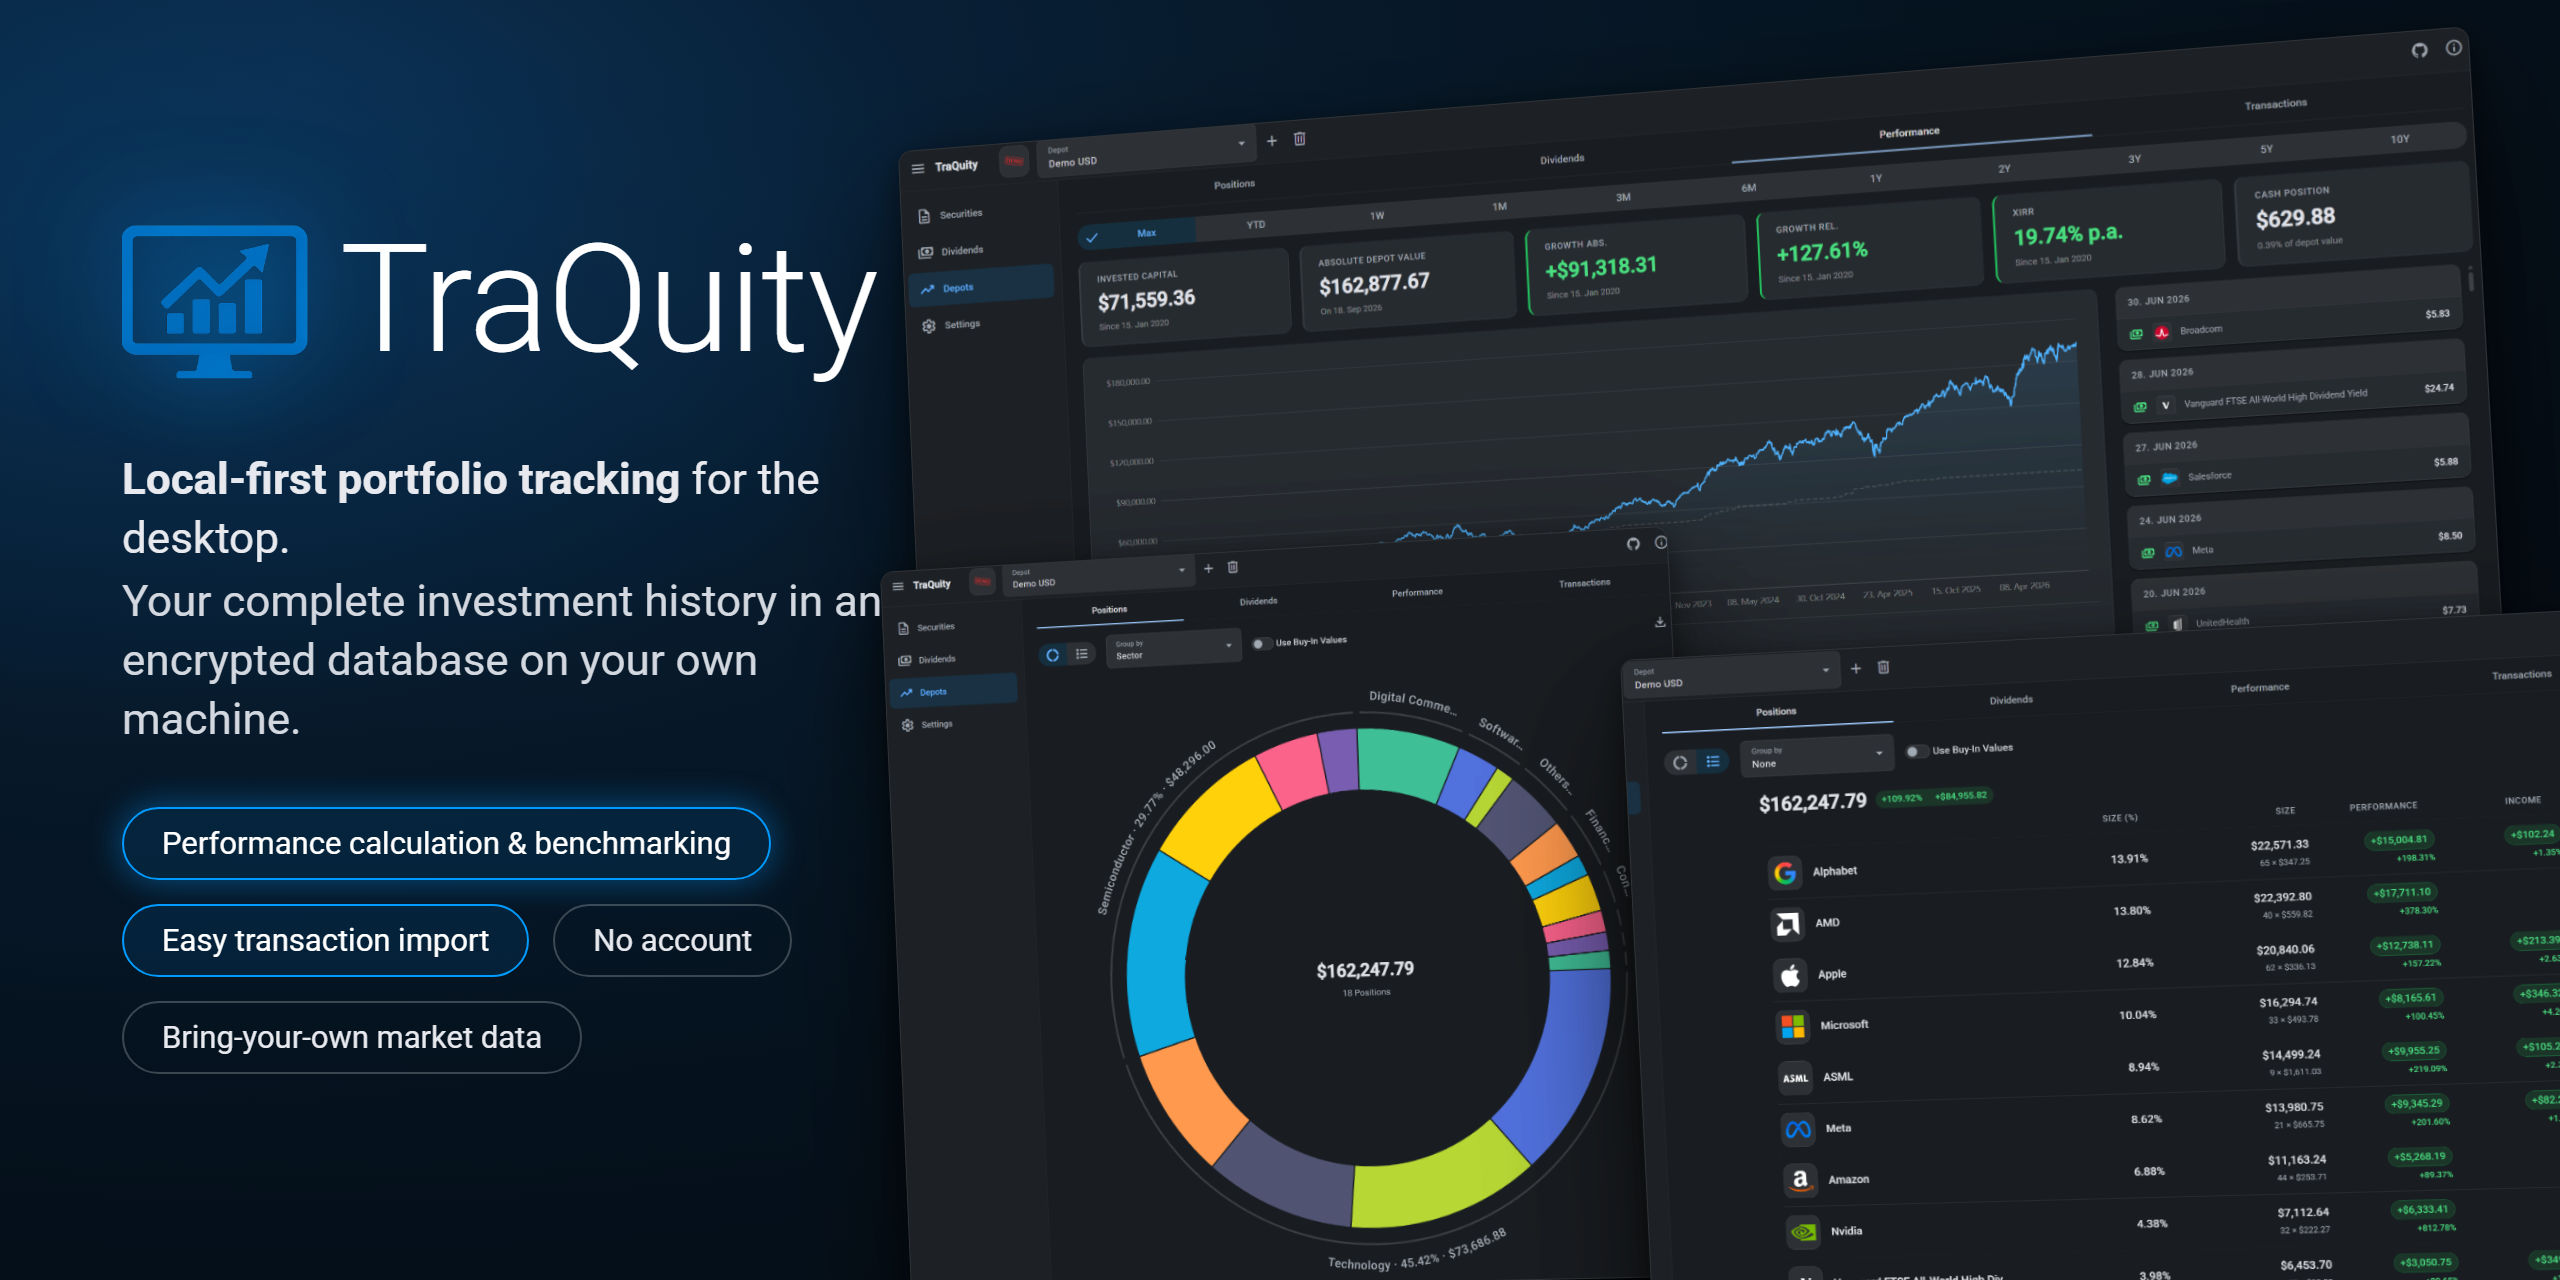
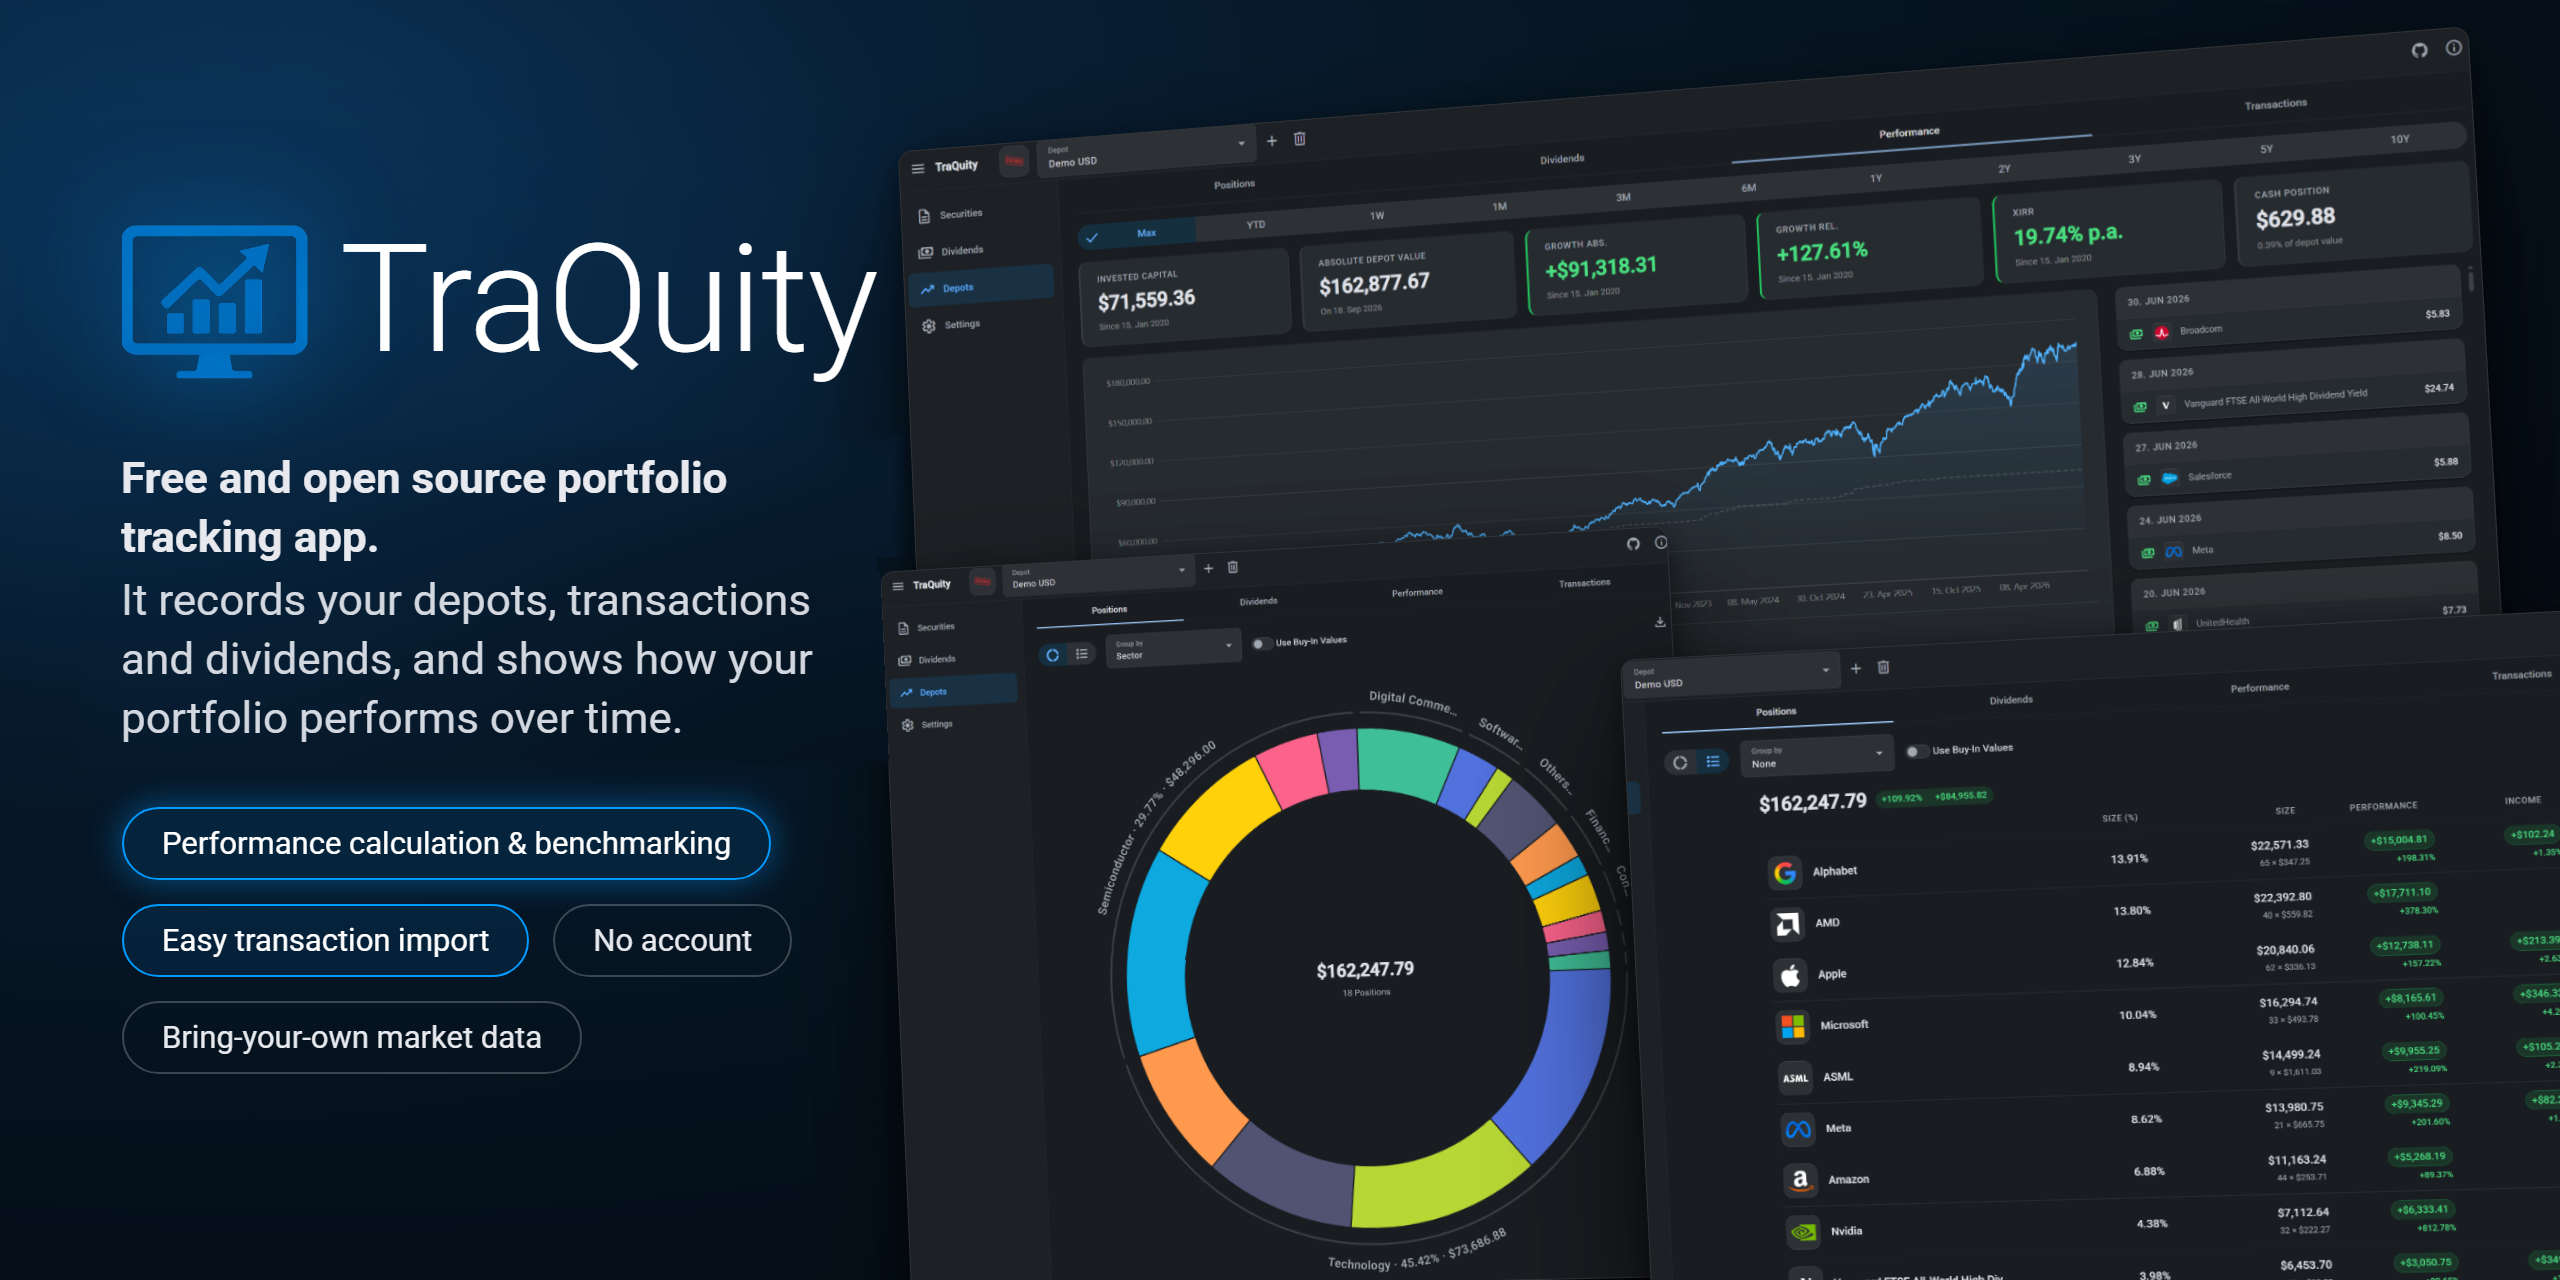
Update documentation

Changed region(s): [[0.0312, 0.3438, 0.3438, 0.5938]]

diff --git a/architecture/licensing.md b/architecture/licensing.md
@@ -22,9 +22,9 @@ commit and were therefore never part of any pull request's diff.
 (FSL-1.1-ALv2, ALv2 Future License), and is named in `ci.yml`'s `allow-dependencies-licenses` so the license gate stops failing on it.
 
 **Rationale:** Liquibase was Apache-2.0 through 4.33.0 and relicensed to FSL-1.1-ALv2 from 5.0.1 on. What the FSL restricts is competing
-use, and TraQuity is a local-first portfolio tracker rather than a database change-management product, so the use this project makes of it
-is not the one the license sets out to prevent. Each FSL release additionally converts to Apache-2.0 two years after its publication. The
-library is consumed unmodified, as one jar among many inside `backend.jar`, and its full license text is bundled and served.
+use, and TraQuity is a desktop portfolio tracker, not a database change-management product, so the use this project makes of it is not
+the one the license sets out to prevent. Each FSL release additionally converts to Apache-2.0 two years after its publication. The library
+is consumed unmodified, as one jar among many inside `backend.jar`, and its full license text is bundled and served.
 
 **Consequences, accepted:**
 

diff --git a/USER_MANUAL.md b/USER_MANUAL.md
@@ -1,6 +1,6 @@
 # TraQuity User Manual
 
-TraQuity is a local-first desktop application for tracking investment portfolios. It records depots, transactions, dividends and
+TraQuity is a free and opensource desktop application for tracking investment portfolios. It records depots, transactions, dividends and
 securities in a single encrypted database file on your own machine. There is no account and no cloud storage. The only outgoing network
 traffic is the market data you configure yourself, the European Central Bank exchange rates, an update check against GitHub, and — if you
 ask for them — a Java runtime download and an AI model download.

diff --git a/README.md b/README.md
@@ -1,10 +1,6 @@
 # TraQuity
 
-![TraQuity — local-first portfolio tracking for the desktop](./doc-assets/social-preview.png)
-
-Local-first portfolio tracking for the desktop. TraQuity keeps your complete investment
-history — depots, transactions, dividends, performance — in an AES-encrypted database on your
-own machine. No account, no cloud, no telemetry.
+![TraQuity — free and open source desktop portfolio tracking](./doc-assets/social-preview.png)
 
 ## Features
 
